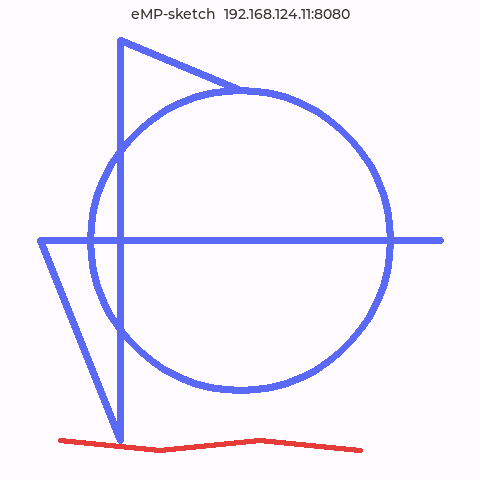
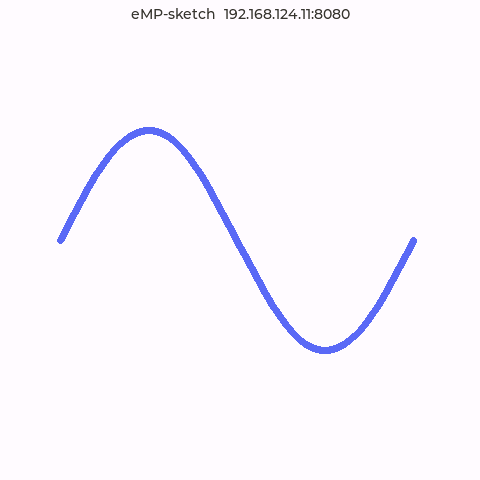
@feat(fw): 画笔增量实时上屏 (画到哪同步到哪)
- paint.js 状态机改造：移动时按 33ms 节流发送「上一已发点→当前点」增量线段，
  板端逐段即时渲染，无需等整笔结束（v0.1.1 实时同屏）
- 抬手补发收尾段；原地单击发单点消息即可落点
- README 协议说明更新为增量实时语义
- 板端协议级实测：模拟 40ms 节奏发 50 段正弦曲线——
  画到 60% 时抓帧：段端点 31/31 命中、未画区 14/14 干净（中间态正确）；
  画完后全程 51/51 端点连续无断点，起点终点命中

diff --git a/web/paint.js b/web/paint.js
@@ -54,6 +54,62 @@
   let panning = false;
   let lastX = 0, lastY = 0;
 
+  // 实时增量上屏：画笔移动时按节流把"上一已发点 → 当前点"的小线段发给板端，
+  // 板端逐段渲染，实现"画到哪同步到哪"，无需等整笔结束（v0.1.1）。
+  let lastSent = null;      // 上次已发送到板端的（世界坐标）点
+  let sentAny = false;      // 本笔是否已发过至少一段
+  let lastSendAt = 0;       // 上次发送时刻（performance.now）
+  const SEND_INTERVAL_MS = 33; // ≈30 段/秒：视觉无感，同时压低板端重绘频率
+
+  function sendSegmentTo(wx, wy) {
+    if (!lastSent) return;
+    send({ type: 'draw', color: current.color, width: current.width,
+           points: [lastSent.x, lastSent.y, wx, wy] });
+    lastSent = { x: wx, y: wy };
+    sentAny = true;
+  }
+  function pointerDown(wx, wy) {
+    drawing = true;
+    current = { color, width, points: [wx, wy] };
+    lastSent = { x: wx, y: wy };
+    sentAny = false;
+    lastSendAt = 0;
+  }
+  function pointerMoveTo(wx, wy) {
+    current.points.push(wx, wy);
+    redraw();
+    if (lastSent && (wx !== lastSent.x || wy !== lastSent.y)) {
+      const now = performance.now();
+      if (!sentAny || now - lastSendAt >= SEND_INTERVAL_MS) {
+        sendSegmentTo(wx, wy);
+        lastSendAt = now;
+      }
+    }
+  }
+  function pointerUp() {
+    if (!drawing || !current) return;
+    drawing = false;
+    if (current.points.length >= 2) {
+      if (!sentAny) {
+        // 原地按下即抬起（单击）：发单点，板端落一个圆点
+        send({ type: 'draw', color: current.color, width: current.width, points: current.points });
+      } else if (lastSent) {
+        // 补发节流间隙内未上屏的最后一段，保证笔迹收尾无缺口
+        const n = current.points.length;
+        const lx = current.points[n - 2];
+        const ly = current.points[n - 1];
+        if (lx !== lastSent.x || ly !== lastSent.y) {
+          sendSegmentTo(lx, ly);
+        }
+      }
+      strokes.push(current);
+    }
+    current = null;
+    lastSent = null;
+    sentAny = false;
+    redraw();
+  }
+
   function pointerPos(e) {
     const r = canvas.getBoundingClientRect();
     return { x: (e.clientX - r.left) * (W / r.width), y: (e.clientY - r.top) * (H / r.height) };
@@ -67,9 +123,8 @@
       lastX = p.x; lastY = p.y;
       return;
     }
-    drawing = true;
     const w = toWorld(p.x, p.y);
-    current = { color, width, points: [Math.round(w.x), Math.round(w.y)] };
+    pointerDown(Math.round(w.x), Math.round(w.y));
   });
 
   canvas.addEventListener('pointermove', (e) => {
@@ -84,22 +139,18 @@
     }
     if (drawing && current) {
       const w = toWorld(p.x, p.y);
-      current.points.push(Math.round(w.x), Math.round(w.y));
-      redraw();
+      pointerMoveTo(Math.round(w.x), Math.round(w.y));
     }
   });
 
-  function endPointer() {
+  function endPointer(e) {
     if (panning) { panning = false; return; }
-    if (drawing && current) {
-      drawing = false;
-      if (current.points.length >= 2) {
-        strokes.push(current);
-        send({ type: 'draw', color: current.color, width: current.width, points: current.points });
-      }
-      current = null;
-      redraw();
+    if (drawing && current && e) {
+      const p = pointerPos(e);
+      const w = toWorld(p.x, p.y);
+      pointerMoveTo(Math.round(w.x), Math.round(w.y)); // 收掉最后一帧（含本地预览）
     }
+    pointerUp();
   }
   canvas.addEventListener('pointerup', endPointer);
   canvas.addEventListener('pointercancel', endPointer);

diff --git a/README.md b/README.md
@@ -100,7 +100,8 @@ T113-S3（192.168.124.11）实测：WebSocket 推入两条笔画（靛蓝对角 
 ```
 
 `points` 为扁平坐标数组（每两点构成一个坐标）；服务端同时容忍嵌套 `[[x,y],...]` 格式。
-每次抬手（pointerup）发送一段完整笔画，板端整段渲染。
+
+画笔采用**增量实时上屏**：移动时按 ≈33ms 节流发送「上一已发点 → 当前点」线段（每条消息都是一段 2 点笔画），板端逐段即时渲染，边画边同步；抬手补发收尾段。原地单击发 1 点消息即可落点。
 
 `points` 为**世界坐标**，板端按当前视口变换落点。颜色 `#RRGGBB` → RGB565。
 
